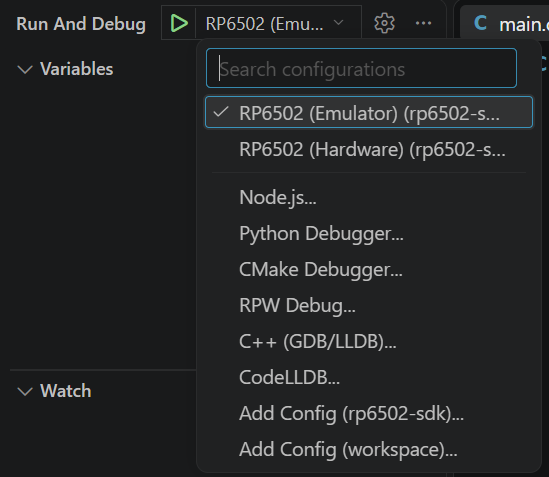
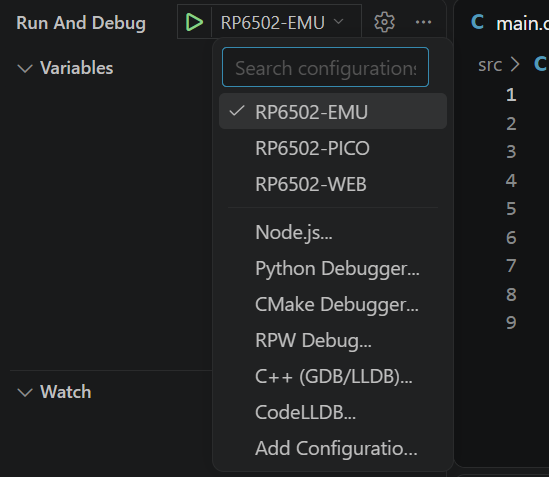
update screenshots

diff --git a/docs/source/sdk.rst b/docs/source/sdk.rst
@@ -118,9 +118,6 @@ Make and Python 3:
 
    xcode-select --install
 
-.. SCREENSHOT: _static/sdk/macos-clt-light.png and macos-clt-dark.png,
-   the dialog that xcode-select opens, with its Install button.
-
 Download the macOS universal disk image of `CMake
 <https://cmake.org/download/>`__, drag CMake to Applications, and add its
 command-line tools:
@@ -194,10 +191,6 @@ for a ROM you share. The fifth, ``basic``, is for BASIC: choose it, and
 write the program in ``src/main.bas``. The preset can be changed later
 from the Configure row of the CMake side panel.
 
-.. SCREENSHOT: preset-*.png show four presets. Retake them with all
-   five: cc65/Debug, cc65/Release, llvm-mos/Debug, llvm-mos/Release and
-   basic.
-
 .. image:: _static/sdk/preset-light.png
    :class: only-light
    :width: 700
@@ -220,9 +213,6 @@ the emulator. "Hello, world!" appears on the emulator's screen and in VS
 Code's Debug Console. The session stays open after the program ends so
 the screen can be read. Stop it with Shift+F5. The emulator window may
 open behind VS Code.
-
-.. SCREENSHOT: first-run-*.png show RP6502 (Emulator) in the status bar.
-   Retake them with the entry named RP6502-EMU.
 
 .. image:: _static/sdk/first-run-light.png
    :class: only-light
@@ -300,10 +290,6 @@ Running and Debugging
 "Start Debugging" (F5) runs one of three launch configurations. Choose
 which in the Run and Debug side panel.
 
-.. SCREENSHOT: configs-*.png show RP6502 (Emulator) and RP6502
-   (Hardware) only. Retake them with RP6502-EMU, RP6502-PICO and
-   RP6502-WEB.
-
 .. image:: _static/sdk/configs-light.png
    :class: only-light
    :width: 400
@@ -323,10 +309,6 @@ preset. With llvm-mos, variables show their C types, and structures and
 arrays expand. With cc65, variables have no types, and each variable's
 size comes from where its symbol sits in memory.
 :ref:`Debugging <emu-debugging>` in the emulator's datasheet covers both.
-
-.. SCREENSHOT: breakpoint-*.png show RP6502 (Emulator) in the status bar
-   and the Run and Debug header. Retake them with the entry named
-   RP6502-EMU.
 
 .. image:: _static/sdk/breakpoint-light.png
    :class: only-light
